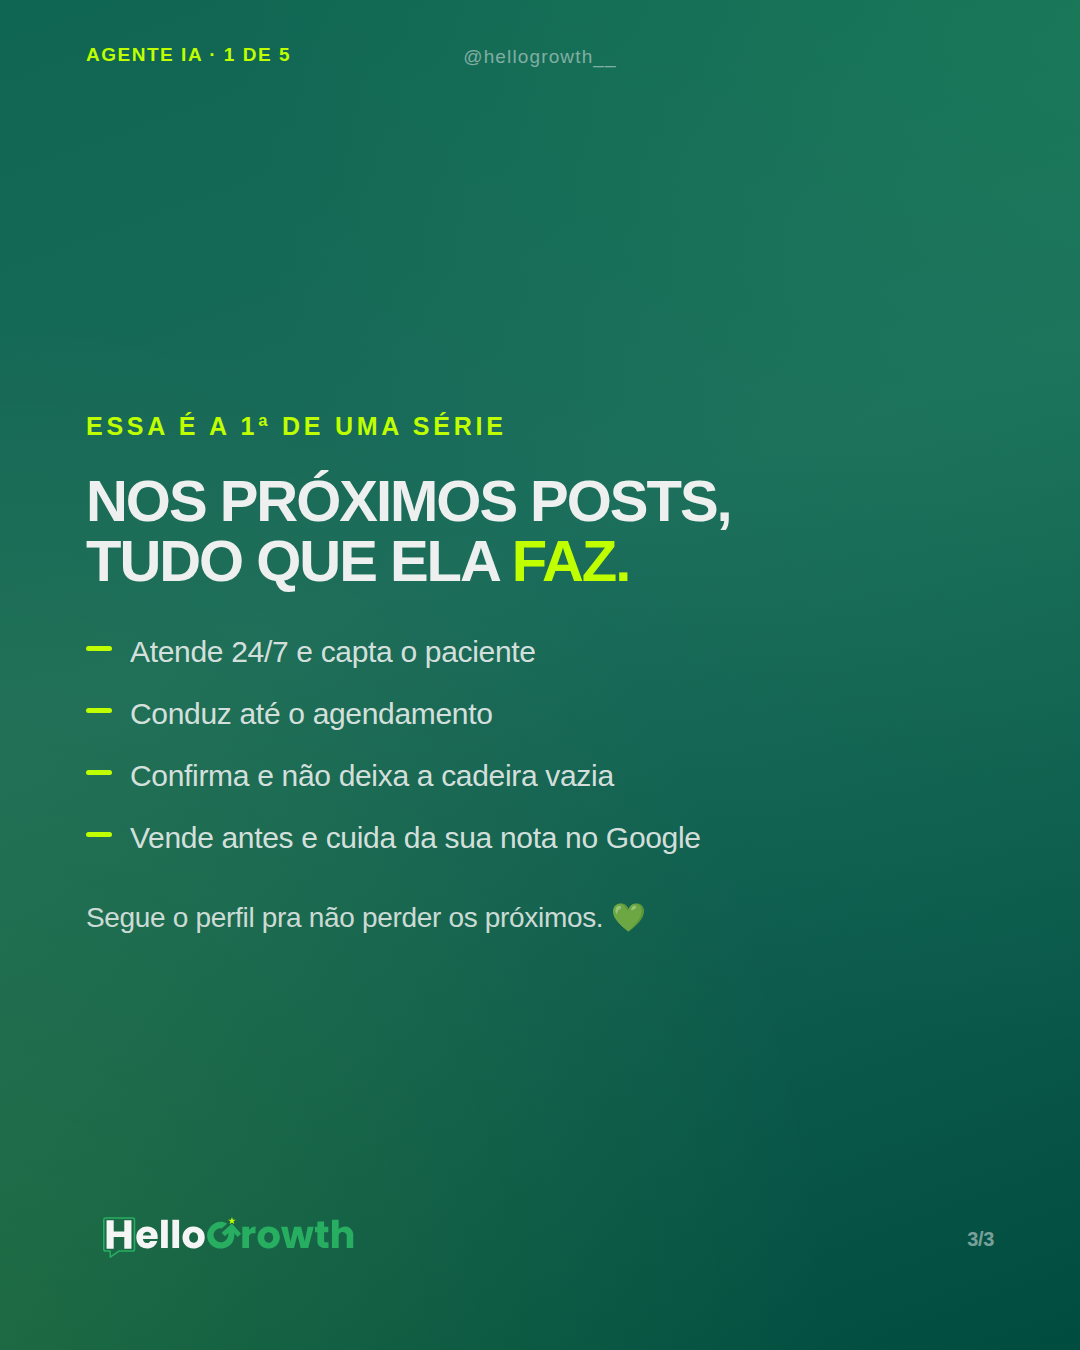
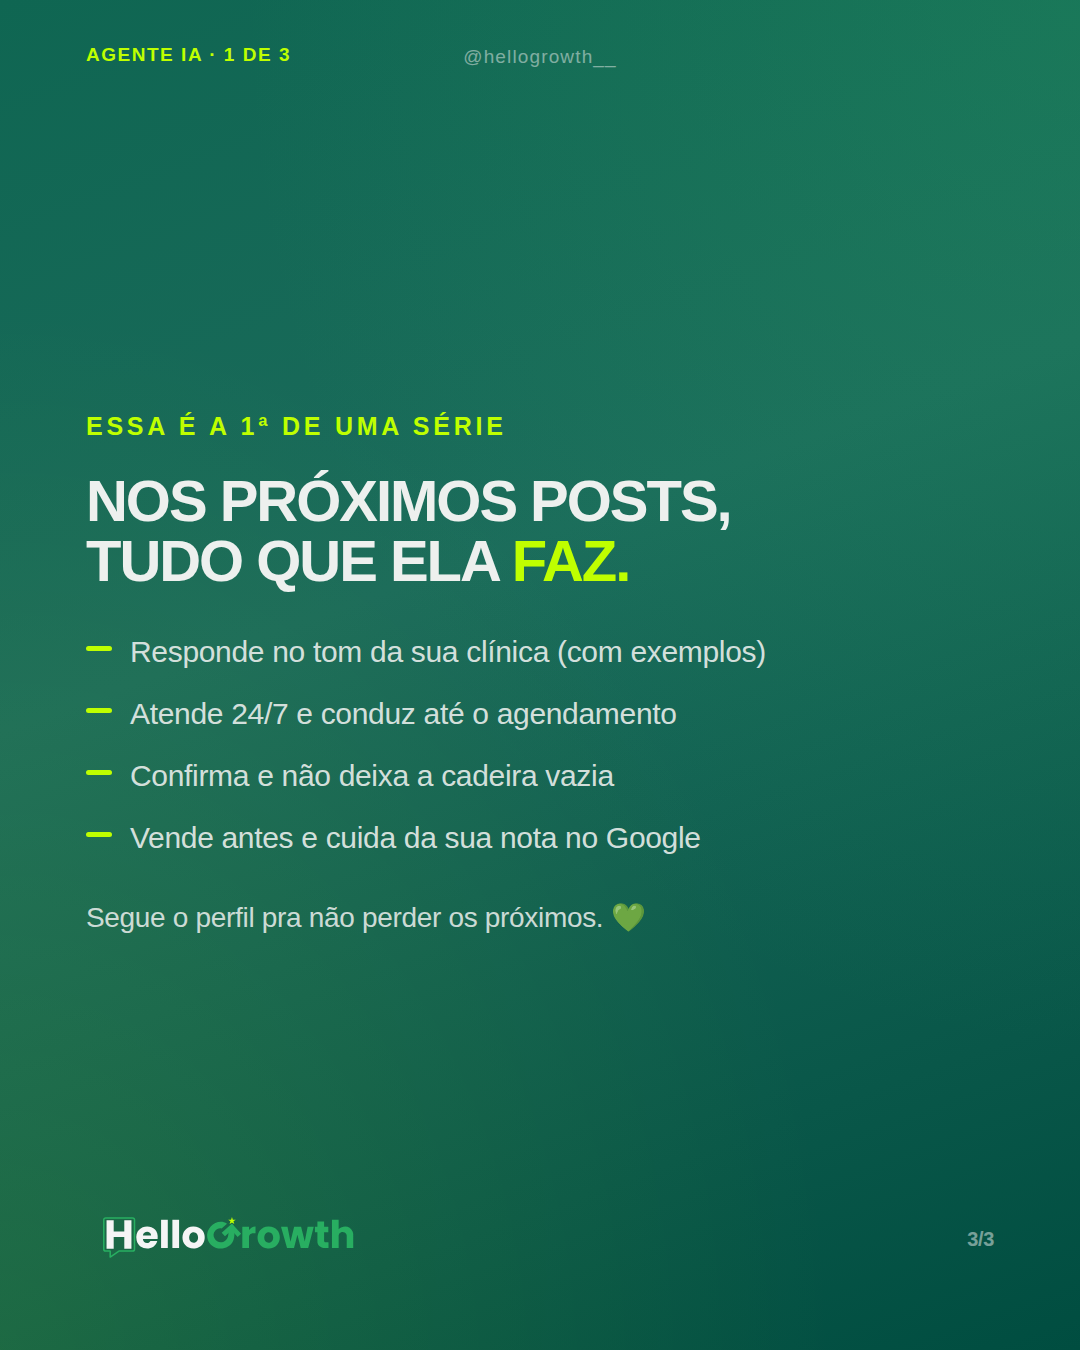
docs(hg-content): copy completa da serie Agente IA (3 carrosseis)
- Serie reduzida de 5 para 3 posts (evita repeticao)
- COPY-SERIE.md com copy card a card + legendas + hashtags:
  P1 A promessa (3 cards), P2 Generica vs treinada (6 cards,
  3 exemplos de chat), P3 O que ela faz o dia todo (6 cards)
- Post 1 re-renderizado com tarja '1 de 3'
- Valores dos exemplos do P2 marcados como a confirmar

Claude-Session: https://claude.ai/code/session_01RXRUyw64HWp6pgoosUTsE4

Changed region(s): [[0.1222, 0.4667, 0.7028, 0.56]]

diff --git a/squads/hg-content/output/2026-06-30-agente-ia/series/post-1-promessa/slides/card-3.html b/squads/hg-content/output/2026-06-30-agente-ia/series/post-1-promessa/slides/card-3.html
@@ -71,13 +71,13 @@ ul.blist li::before { content:''; position:absolute; left:0; top:15px; width:26p
 .dark .arrow { background:#bfff00; } .light .arrow { background:#28ae61; }
 .arrow svg { width:36px; height:36px; }
 </style></head>
-<body><div class="card dark center"><div class="handle">@hellogrowth__</div><div class="serieflag">Agente IA · 1 de 5</div>
+<body><div class="card dark center"><div class="handle">@hellogrowth__</div><div class="serieflag">Agente IA · 1 de 3</div>
 
 <div class="kicker">Essa é a 1ª de uma série</div>
 <div class="headline" style="font-size:58px;">NOS PRÓXIMOS POSTS,<br>TUDO QUE ELA <span class="ac">FAZ.</span></div>
 <ul class="blist" style="margin-top:40px;">
-  <li>Atende 24/7 e capta o paciente</li>
-  <li>Conduz até o agendamento</li>
+  <li>Responde no tom da sua clínica (com exemplos)</li>
+  <li>Atende 24/7 e conduz até o agendamento</li>
   <li>Confirma e não deixa a cadeira vazia</li>
   <li>Vende antes e cuida da sua nota no Google</li>
 </ul>

diff --git a/squads/hg-content/output/2026-06-30-agente-ia/series/post-1-promessa/slides/card-2.html b/squads/hg-content/output/2026-06-30-agente-ia/series/post-1-promessa/slides/card-2.html
@@ -71,7 +71,7 @@ ul.blist li::before { content:''; position:absolute; left:0; top:15px; width:26p
 .dark .arrow { background:#bfff00; } .light .arrow { background:#28ae61; }
 .arrow svg { width:36px; height:36px; }
 </style></head>
-<body><div class="card light center"><div class="handle">@hellogrowth__</div><div class="serieflag">Agente IA · 1 de 5</div>
+<body><div class="card light center"><div class="handle">@hellogrowth__</div><div class="serieflag">Agente IA · 1 de 3</div>
 
 <div class="kicker">A diferença</div>
 <div class="headline" style="font-size:66px;">NÃO É UMA IA GENÉRICA.<br>É A ATENDENTE DA <span class="ac">SUA CLÍNICA.</span></div>

diff --git a/squads/hg-content/output/2026-06-30-agente-ia/series/post-1-promessa/slides/card-1.html b/squads/hg-content/output/2026-06-30-agente-ia/series/post-1-promessa/slides/card-1.html
@@ -71,7 +71,7 @@ ul.blist li::before { content:''; position:absolute; left:0; top:15px; width:26p
 .dark .arrow { background:#bfff00; } .light .arrow { background:#28ae61; }
 .arrow svg { width:36px; height:36px; }
 </style></head>
-<body><div class="card dark center"><div class="handle">@hellogrowth__</div><div class="serieflag">Agente IA · 1 de 5</div>
+<body><div class="card dark center"><div class="handle">@hellogrowth__</div><div class="serieflag">Agente IA · 1 de 3</div>
 
 <div class="bubbles">
   <div class="bub in">Oi, quanto custa um implante?</div>

diff --git a/squads/hg-content/output/2026-06-30-agente-ia/series/post-1-promessa/gen_post1.py b/squads/hg-content/output/2026-06-30-agente-ia/series/post-1-promessa/gen_post1.py
@@ -5,7 +5,7 @@ from hg_lib import page
 
 OUT = "squads/hg-content/output/2026-06-30-agente-ia/series/post-1-promessa/slides"
 os.makedirs(OUT, exist_ok=True)
-SERIE = "Agente IA · 1 de 5"
+SERIE = "Agente IA · 1 de 3"
 TOTAL = 3
 cards = []
 
@@ -30,8 +30,8 @@ cards.append(("card-3","dark",True,True, f'''
 <div class="kicker">Essa é a 1ª de uma série</div>
 <div class="headline" style="font-size:58px;">NOS PRÓXIMOS POSTS,<br>TUDO QUE ELA <span class="ac">FAZ.</span></div>
 <ul class="blist" style="margin-top:40px;">
-  <li>Atende 24/7 e capta o paciente</li>
-  <li>Conduz até o agendamento</li>
+  <li>Responde no tom da sua clínica (com exemplos)</li>
+  <li>Atende 24/7 e conduz até o agendamento</li>
   <li>Confirma e não deixa a cadeira vazia</li>
   <li>Vende antes e cuida da sua nota no Google</li>
 </ul>

diff --git a/squads/hg-content/output/2026-06-30-agente-ia/series/COPY-SERIE.md b/squads/hg-content/output/2026-06-30-agente-ia/series/COPY-SERIE.md
@@ -1,0 +1,223 @@
+# Série "O Agente Artificial da sua clínica" — COPY DOS 3 CARROSSÉIS
+
+**Fonte:** https://hellogrowth-agente-artificial.vercel.app/
+**Formato:** 1080×1350 · Estilo verde HelloGrowth · Tarja de série no topo: `AGENTE IA · N DE 3`
+**Total:** 3 posts (3 + 6 + 6 = 15 cards)
+
+---
+
+# POST 1 — A PROMESSA
+**Tarja:** `AGENTE IA · 1 DE 3` · **3 cards** · *(já renderizado)*
+
+### Card 1 — Capa (dark)
+> **Chat:**
+> 🧑 Oi, quanto custa um implante?
+> 🤖 Depende do caso 🙂 me conta o que você sente?
+
+**Kicker:** O AGENTE ARTIFICIAL DA SUA CLÍNICA
+**Headline:** TODA IA PRA CLÍNICA PARECE IGUAL. **ATÉ O PACIENTE ESCREVER.**
+**Apoio:** O que separa uma da outra não é o modelo de IA. É **quem ensinou ela**.
+
+### Card 2 — O diferencial (light)
+**Kicker:** A DIFERENÇA
+**Headline:** NÃO É UMA IA GENÉRICA. É A ATENDENTE DA **SUA CLÍNICA.**
+**Apoio:** Construída com a base de conhecimento da **sua** clínica. Atende **24/7**, no seu tom, com as suas regras.
+
+### Card 3 — Teaser da série (dark)
+**Kicker:** ESSA É A 1ª DE UMA SÉRIE
+**Headline:** NOS PRÓXIMOS POSTS, TUDO QUE ELA **FAZ.**
+**Lista:**
+- Responde no tom da sua clínica (com exemplos reais)
+- Atende 24/7 e conduz até o agendamento
+- Confirma e não deixa a cadeira vazia
+- Vende antes e cuida da sua nota no Google
+
+**Apoio:** Segue o perfil pra não perder os próximos. 💚
+
+### Legenda
+Toda IA pra clínica parece igual. Até o paciente escrever. 🦷🤖
+
+O que separa uma IA que converte de uma que irrita não é o modelo. É quem ensinou ela.
+
+O agente artificial da HelloGrowth não é uma IA genérica adaptada pra odontologia — é a atendente construída com a base de conhecimento da SUA clínica. Atende 24/7, no seu tom, com as suas regras.
+
+Essa é a 1ª de uma série de 3. Nos próximos posts eu mostro, com exemplos reais, tudo que ela faz.
+
+Segue pra não perder. 💚
+
+**Hashtags:** #odontologia #gestaodeclinicas #inteligenciaartificial #hellogrowth #clinicaodontologica #dentista #marketingodontologico #atendimento
+
+---
+
+# POST 2 — GENÉRICA VS. TREINADA
+**Tarja:** `AGENTE IA · 2 DE 3` · **6 cards**
+**Ideia central:** mostrar, lado a lado, a mesma pergunta do paciente respondida por uma IA genérica e pelo agente treinado com as regras da clínica.
+
+### Card 1 — Capa (dark)
+**Kicker:** AGENTE IA · EXEMPLOS REAIS
+**Headline:** A MESMA PERGUNTA. **DUAS RESPOSTAS.**
+**Apoio:** Uma faz o paciente sumir. A outra faz ele marcar. Arrasta pra ver a diferença. →
+
+### Card 2 — Exemplo 1: PREÇO (light)
+**Pergunta do paciente:** 🧑 "Quanto custa um clareamento?"
+
+**❌ IA GENÉRICA:**
+> "Os valores variam conforme o caso. Recomendo entrar em contato com a clínica para mais informações."
+
+**✅ AGENTE TREINADO:**
+> "O clareamento a laser aqui sai R$ 890 e já inclui a avaliação 😊 Dá pra parcelar em 3x sem juros. Quer que eu veja um horário essa semana?"
+
+**Rodapé:** Ela sabe o preço, a regra e a forma de pagamento — porque **você** ensinou.
+
+### Card 3 — Exemplo 2: CONVÊNIO (dark)
+**Pergunta do paciente:** 🧑 "Vocês atendem meu convênio?"
+
+**❌ IA GENÉRICA:**
+> "Não tenho essa informação. Por favor, consulte a recepção."
+
+**✅ AGENTE TREINADO:**
+> "A gente não trabalha com convênio, mas tem plano próprio e parcelamento em até 12x 🙂 Na prática costuma sair mais em conta. Quer que eu te explique?"
+
+**Rodapé:** "Não sei" mata a conversa. A regra da clínica **vira resposta**.
+
+### Card 4 — Exemplo 3: DOR / URGÊNCIA (light)
+**Pergunta do paciente:** 🧑 "Tô com muita dor, o que eu faço?"
+
+**❌ IA GENÉRICA:**
+> "Sinto muito. Recomendo procurar um dentista o quanto antes."
+
+**✅ AGENTE TREINADO:**
+> "Dor a gente prioriza 😟 Consegue vir hoje às 16h ou amanhã às 9h? Enquanto isso, evita mastigar desse lado e não coloca nada quente."
+
+**Rodapé:** Urgência é encaixe, não protocolo. Ela sabe **qual horário pode oferecer**.
+
+### Card 5 — O porquê (dark)
+**Kicker:** POR QUE A DIFERENÇA É TÃO GRANDE
+**Headline:** O MODELO É O MESMO. A **BASE DE CONHECIMENTO** NÃO.
+**Apoio:** IA genérica responde sobre odontologia. A sua responde **pela sua clínica**: seus preços, suas regras, sua agenda, seu jeito de falar.
+
+### Card 6 — CTA (light)
+**Kicker:** NO PRÓXIMO POST
+**Headline:** O QUE ELA FAZ **O DIA TODO** (INCLUSIVE 23H47).
+**Apoio:** Do primeiro "bom dia" até a avaliação no Google — sem ninguém da equipe apertar nada.
+**Botão:** CONHECER O AGENTE 💚
+
+### Legenda
+"Quanto custa um clareamento?"
+
+IA genérica: *"Os valores variam conforme o caso. Entre em contato com a clínica."* 🥱
+
+Agente treinado: *"O clareamento a laser aqui sai R$ 890 e já inclui a avaliação. Dá pra parcelar em 3x. Quer que eu veja um horário essa semana?"* ⚡
+
+Percebeu? O modelo de IA é o mesmo. A base de conhecimento não.
+
+Uma responde SOBRE odontologia. A outra responde PELA sua clínica — com os seus preços, as suas regras, a sua agenda e o seu jeito de falar.
+
+E isso muda tudo em 3 momentos que decidem a venda:
+💰 Preço — "varia conforme o caso" vs. valor + parcelamento + convite pro horário
+🏥 Convênio — "não tenho essa informação" vs. a alternativa que você oferece
+🦷 Dor — "procure um dentista" vs. o encaixe de hoje às 16h
+
+"Não sei" mata a conversa. E cada conversa morta é um paciente que foi pro concorrente.
+
+No próximo post: o que ela faz o dia todo (inclusive às 23h47). 👀
+
+**Hashtags:** #odontologia #gestaodeclinicas #inteligenciaartificial #clinicaodontologica #marketingodontologico #hellogrowth #atendimento #dentista #captacaodepacientes
+
+---
+
+# POST 3 — O QUE ELA FAZ O DIA TODO
+**Tarja:** `AGENTE IA · 3 DE 3` · **6 cards**
+**Ideia central:** o ciclo completo do paciente — 24/7, agendamento, confirmação, pré e pós-venda.
+
+### Card 1 — Capa (dark)
+> **Chat (23h47):**
+> 🧑 Boa noite, vocês fazem implante? *23:47*
+> 🤖 Fazemos sim! 🙂 Me conta: é um dente só ou mais de um?
+
+**Kicker:** AGENTE IA · O CICLO COMPLETO
+**Headline:** ENQUANTO VOCÊ DORME, ALGUÉM ESTÁ **ESCOLHENDO UMA CLÍNICA.**
+**Apoio:** E escolhe a que **respondeu**. Não a melhor — a que respondeu.
+
+### Card 2 — Etapa 01 (light)
+**Etapa:** 01 · RESPONDE A QUALQUER HORA
+**Título:** PRIMEIRO CONTATO
+**Lista:**
+- Atende inclusive fora do expediente, fim de semana e feriado
+- Levanta a queixa, a urgência e de onde veio o contato
+
+**Rodapé:** O paciente não espera até segunda. Ele manda pra próxima clínica.
+
+### Card 3 — Etapa 02 (dark)
+**Etapa:** 02 · ENQUANTO O INTERESSE ESTÁ QUENTE
+**Título:** CONDUÇÃO ATÉ O AGENDAMENTO
+**Lista:**
+- Explica o procedimento e trata o valor pela regra da clínica
+- Entrega pra equipe fechar o horário na agenda real
+
+**Rodapé:** Ela não inventa horário. Ela entrega o paciente **pronto** pra sua equipe.
+
+### Card 4 — Etapa 03 (light)
+**Etapa:** 03 · UM DIA ANTES
+**Título:** CONFIRMAÇÃO DE CONSULTA
+**Lista:**
+- Confirma a presença e libera o horário se o paciente não vier
+- Avisa a equipe a tempo de reocupar a cadeira
+
+**Rodapé:** Cadeira vazia é o prejuízo mais silencioso da clínica.
+
+### Card 5 — Etapas 04 + 05 (dark)
+**Kicker:** ANTES E DEPOIS DA CONSULTA
+**Headline:** ELA VENDE ANTES. E **CUIDA DEPOIS.**
+
+**04 · PRÉ-VENDA** (logo após a confirmação)
+- Identifica oportunidades de venda antes da consulta
+- Prepara o dentista pra vender mais e melhor
+
+**05 · PÓS-VENDA** (depois do atendimento)
+- Mede a satisfação do paciente
+- Direciona quem gostou pro **Google**
+- Aciona a equipe quando a nota vem baixa
+
+### Card 6 — CTA (light)
+**Ícone:** ↻
+**Headline:** E O CICLO **RECOMEÇA** A CADA NOVA CONSULTA.
+**Apoio:** Uma atendente que não dorme, não esquece de confirmar e não deixa uma avaliação boa se perder. No tom da sua clínica.
+**Botão:** CONHECER O AGENTE 💚
+
+### Legenda
+23h47. Um paciente com dor abre o Instagram e manda mensagem pra 3 clínicas.
+
+Duas respondem na segunda-feira. Uma responde na hora.
+
+Adivinha qual ele escolheu? Não foi a melhor. Foi a que respondeu. 🕐
+
+É por isso que o agente artificial não é "um chatbot". Ele acompanha o paciente inteiro:
+
+1⃣ PRIMEIRO CONTATO — responde a qualquer hora (inclusive fim de semana), levanta a queixa e a urgência
+
+2⃣ AGENDAMENTO — explica o procedimento, trata o valor pela sua regra e entrega o paciente pronto pra equipe fechar na agenda real
+
+3⃣ CONFIRMAÇÃO — um dia antes, confirma a presença e libera a cadeira se o paciente não vier (com tempo de reocupar)
+
+4⃣ PRÉ-VENDA — identifica oportunidade antes da consulta e prepara o dentista pra vender melhor
+
+5⃣ PÓS-VENDA — mede a satisfação, manda quem gostou pro Google e aciona a equipe quando a nota vem baixa
+
+E o ciclo recomeça a cada nova consulta. 🔁
+
+Não é uma IA que responde. É uma que trabalha.
+
+Quer ver ela atendendo no tom da sua clínica? Link na bio. 💚
+
+**Hashtags:** #odontologia #gestaodeclinicas #inteligenciaartificial #clinicaodontologica #marketingodontologico #hellogrowth #atendimento #dentista #nãoshow #captacaodepacientes
+
+---
+
+## ⚠ Valores a confirmar antes de publicar
+Os exemplos do Post 2 usam números **fictícios de exemplo**. Confirmar com o Diego:
+- Preço do clareamento (usei R$ 890 / 3x sem juros)
+- A clínica trabalha com convênio? (assumi que não, com plano próprio + 12x)
+- Horários de encaixe de urgência (usei "hoje 16h / amanhã 9h")
+
+Se os números mudarem, é só trocar nos cards 2, 3 e 4 do Post 2.

diff --git a/squads/hg-content/output/2026-06-30-agente-ia/series/post-1-promessa/content.md b/squads/hg-content/output/2026-06-30-agente-ia/series/post-1-promessa/content.md
@@ -1,6 +1,6 @@
 # Série Agente IA — Post 1: A promessa
 
-**3 cards** · 1080×1350 · Tarja "Agente IA · 1 de 5"
+**3 cards** · 1080×1350 · Tarja "Agente IA · 1 de 3"
 
 1. Chat + "TODA IA PRA CLÍNICA PARECE IGUAL. ATÉ O PACIENTE ESCREVER." — o que separa é quem ensinou a IA.
 2. "NÃO É UMA IA GENÉRICA. É A ATENDENTE DA SUA CLÍNICA." 24/7, seu tom, suas regras.
@@ -13,6 +13,6 @@ O que separa uma IA que converte de uma que irrita não é o modelo. É quem ens
 
 O agente artificial da HelloGrowth não é uma IA genérica adaptada pra odontologia — é a atendente construída com a base de conhecimento da SUA clínica. Atende 24/7, no seu tom, com as suas regras.
 
-Essa é a 1ª de uma série. Nos próximos posts eu mostro, com exemplos reais, tudo que ela faz. Segue pra não perder. 💚
+Essa é a 1ª de uma série de 3. Nos próximos posts eu mostro, com exemplos reais, tudo que ela faz. Segue pra não perder. 💚
 
 #odontologia #gestaodeclinicas #inteligenciaartificial #hellogrowth #clinicaodontologica #dentista
